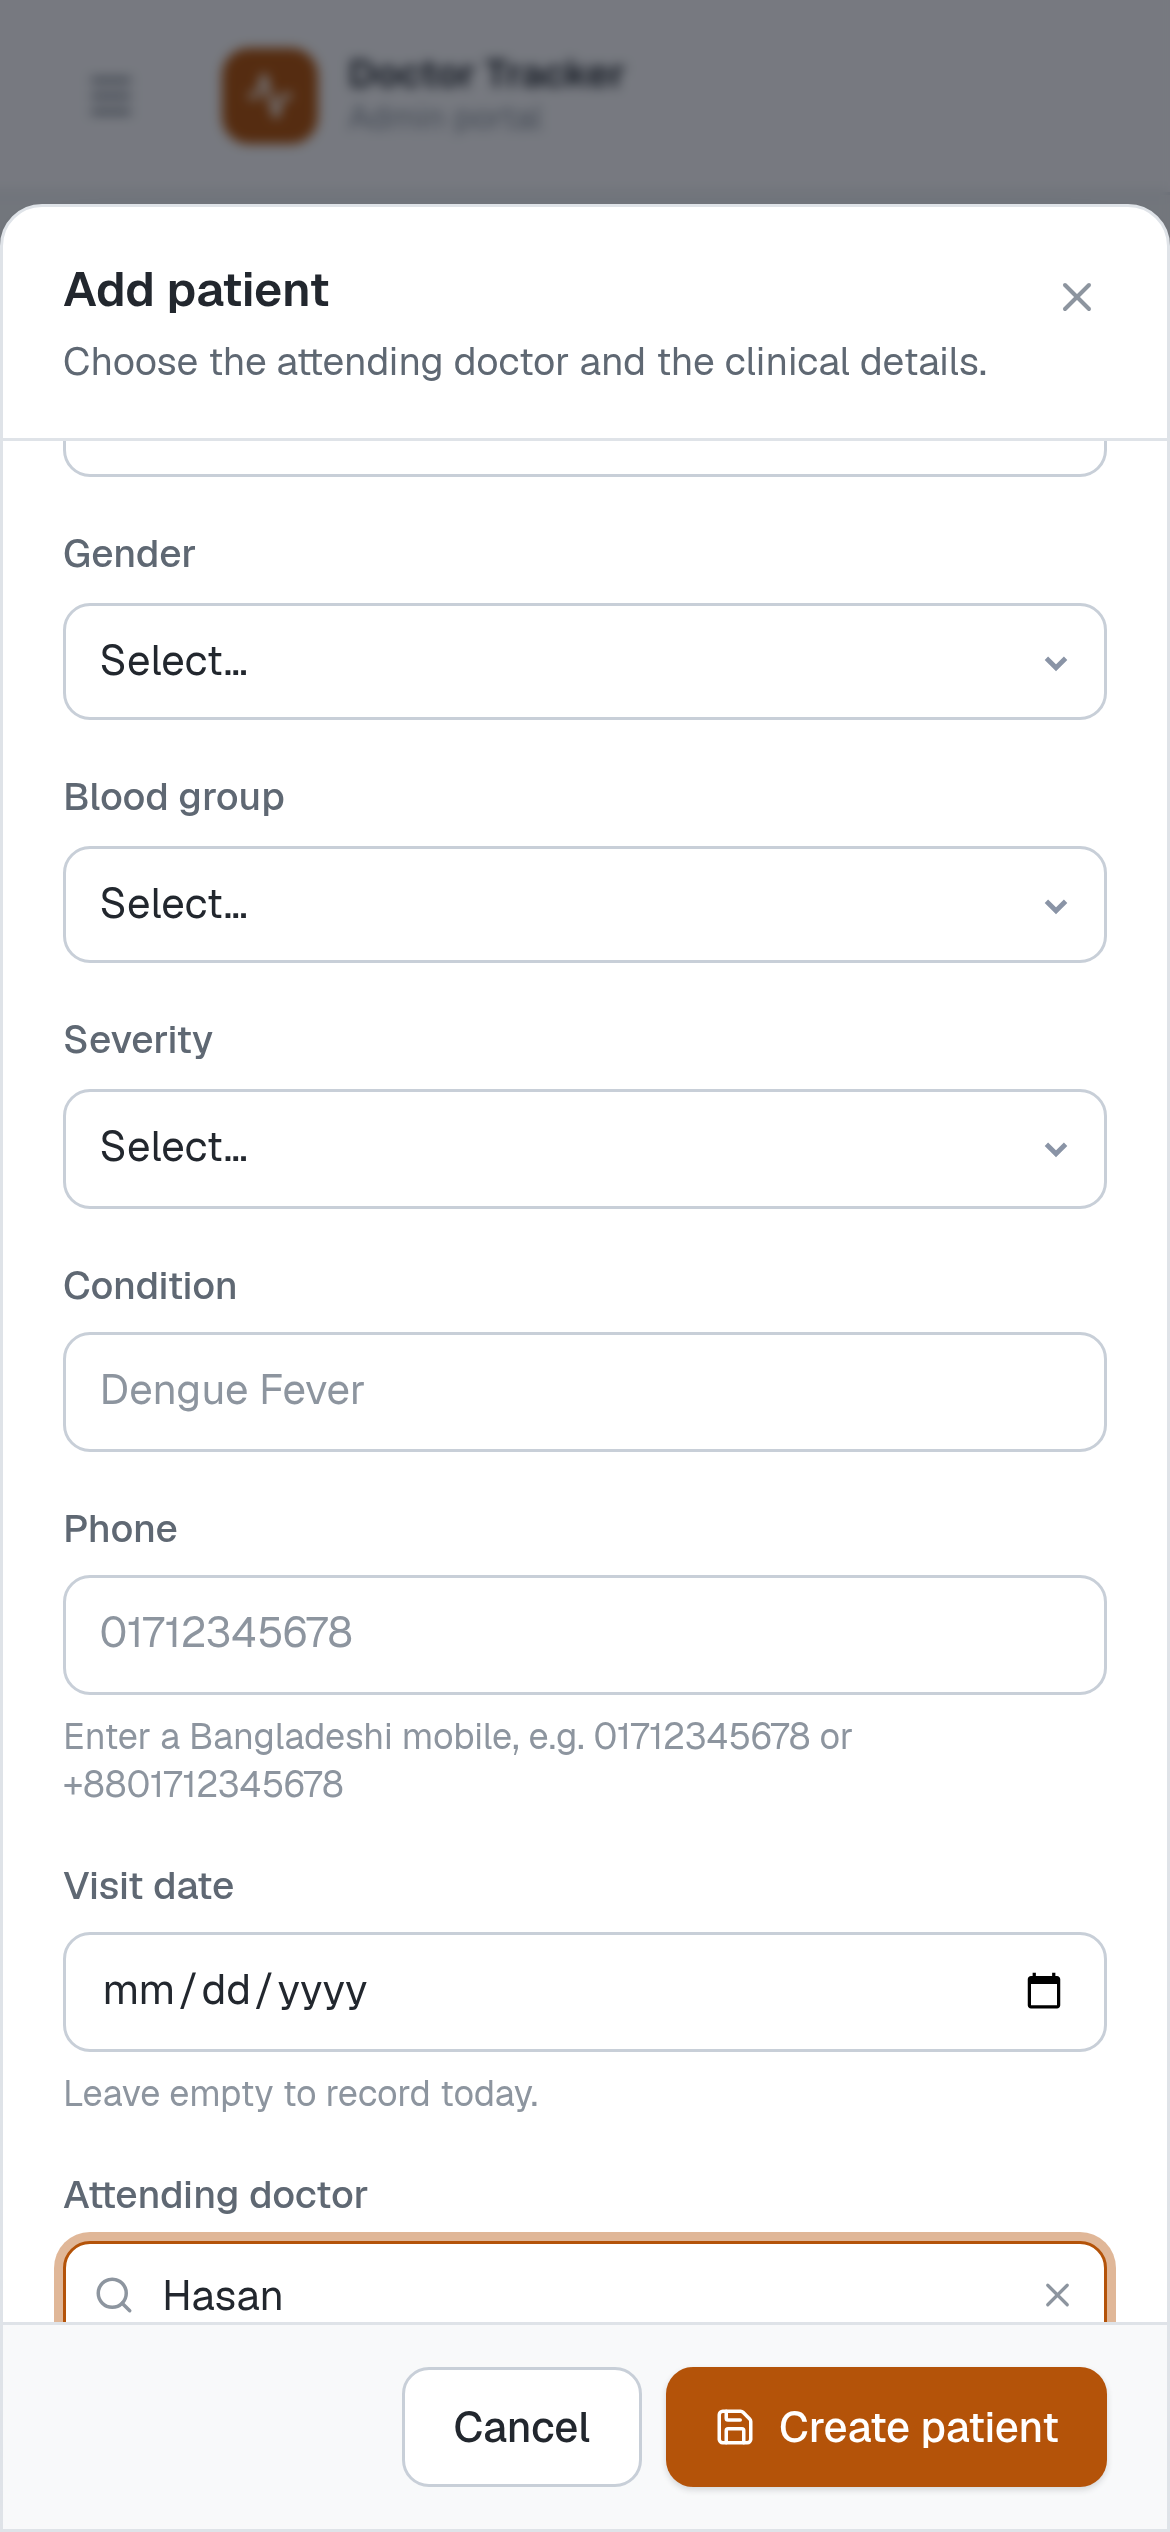
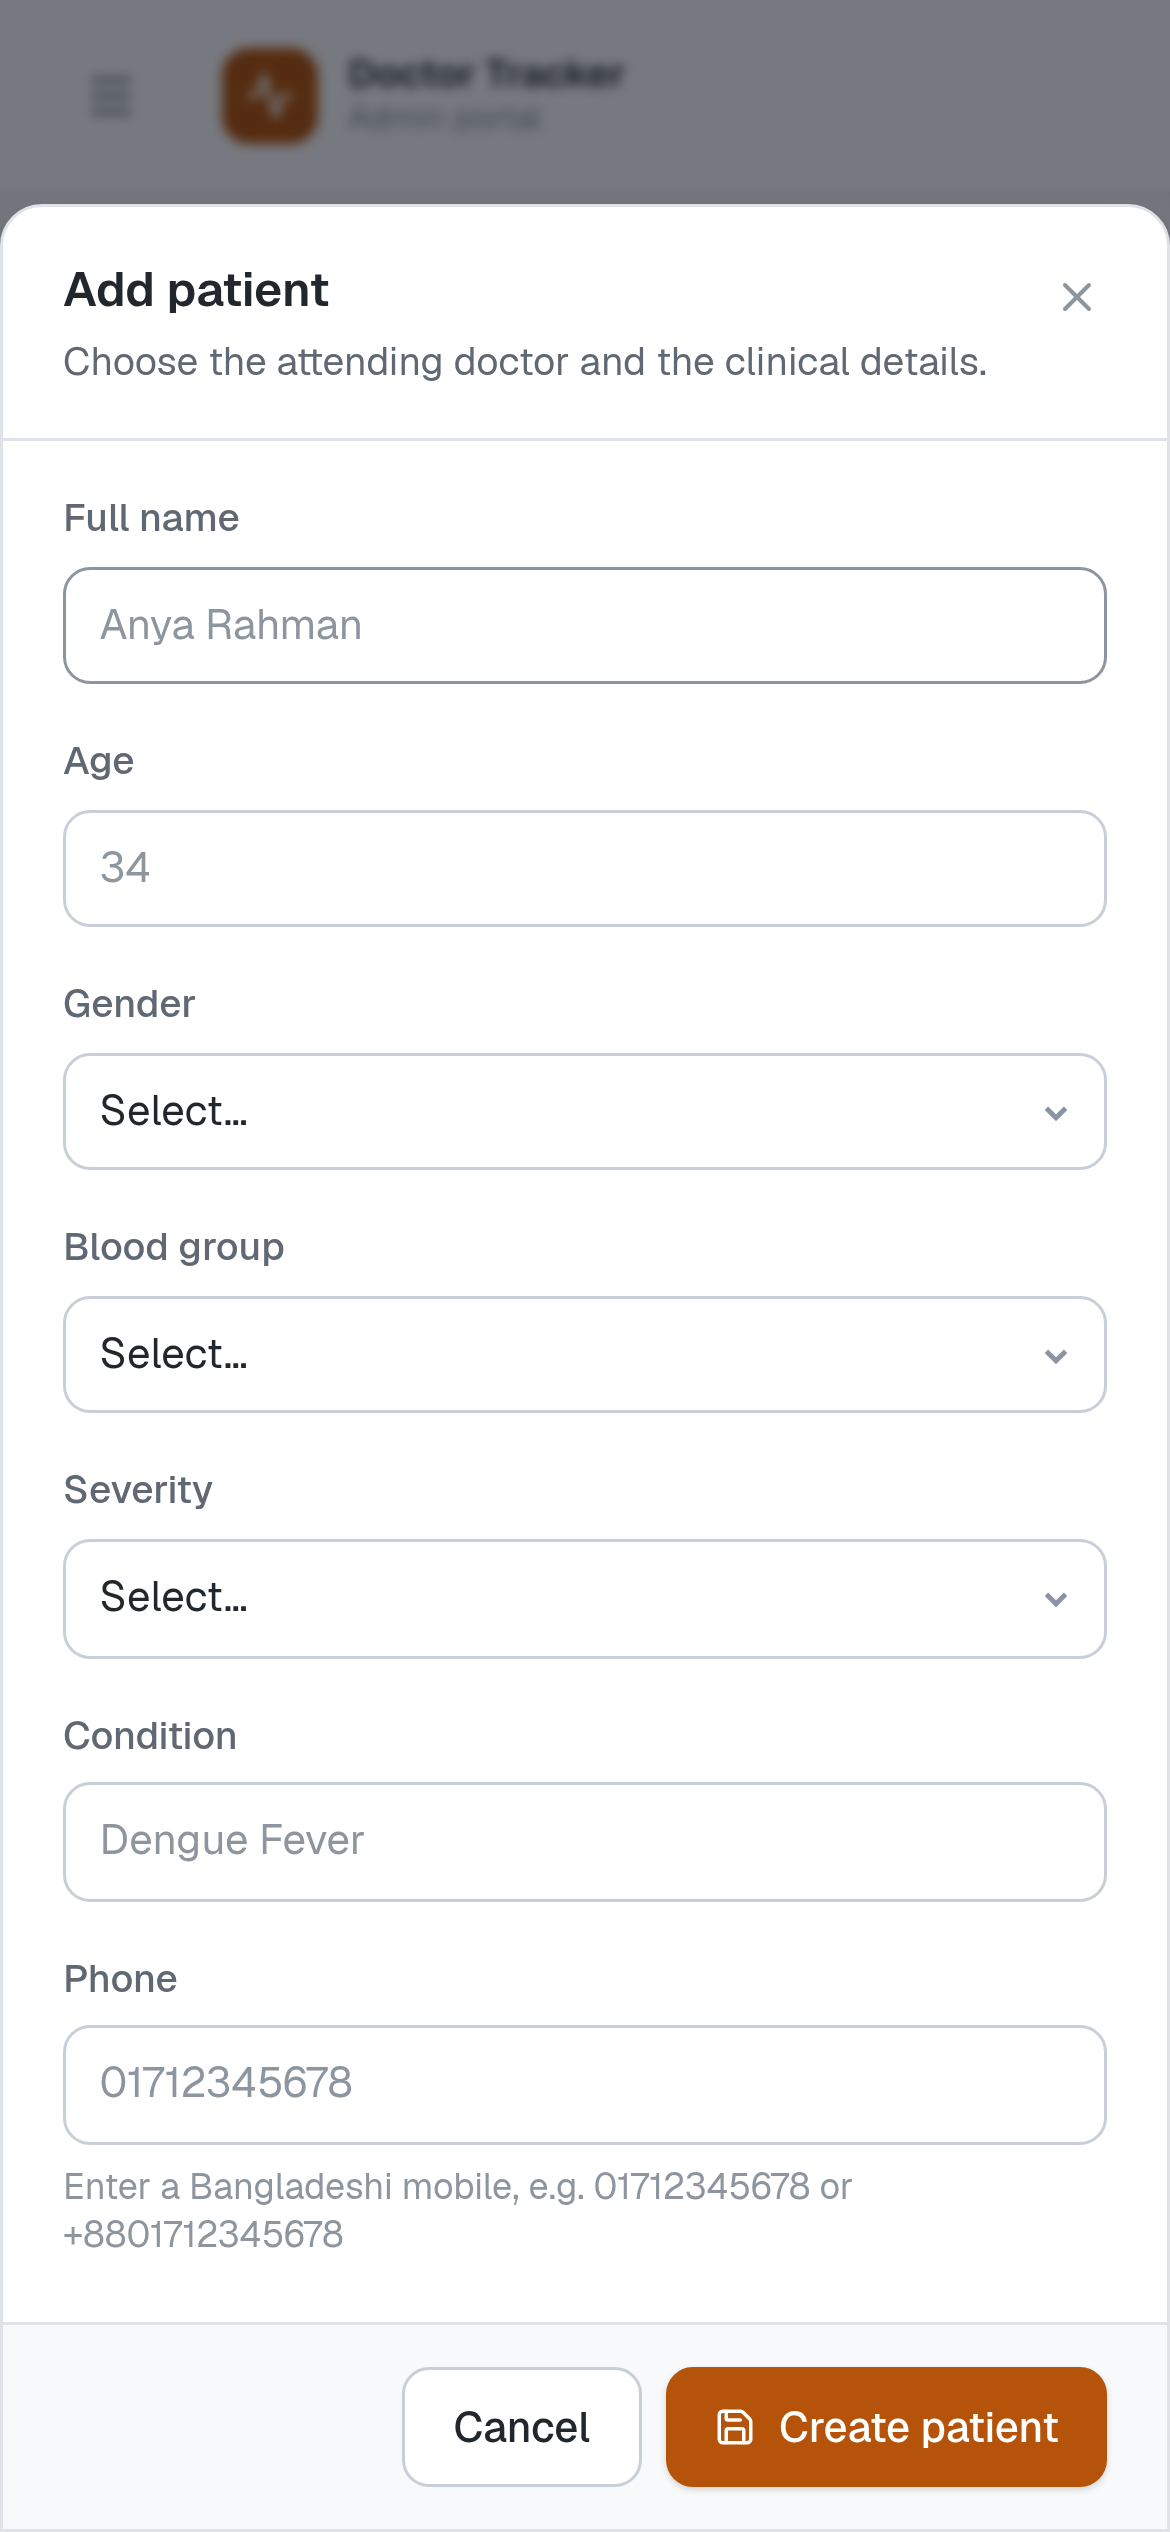
Say what the case-mix donut actually counts
The centre of the ring read "124 tracked" on a register of 600 patients. The
facet is capped at the top conditions server-side, so that number is the sum of
the slices drawn, not the size of the register — and the legend percentages are
taken against the same subtotal. Labelled "visits shown" instead.

diff --git a/src/components/charts/dashboard-charts.tsx b/src/components/charts/dashboard-charts.tsx
@@ -108,7 +108,11 @@ export function ConditionMixChart({ data }: { data: Slices }) {
         </ResponsiveContainer>
         <div className="pointer-events-none absolute inset-0 flex flex-col items-center justify-center">
           <span className="text-xl font-semibold text-ink">{total.toLocaleString()}</span>
-          <span className="text-[11px] text-ink-faint">tracked</span>
+          {/* `tracked` here would read as "the register holds this many patients" —
+              the API caps this facet at the top conditions, so the number is only
+              what the ring draws. The percentages beside the legend are the same
+              subtotal, not the whole register. */}
+          <span className="text-[11px] text-ink-faint">visits shown</span>
         </div>
       </div>
 
